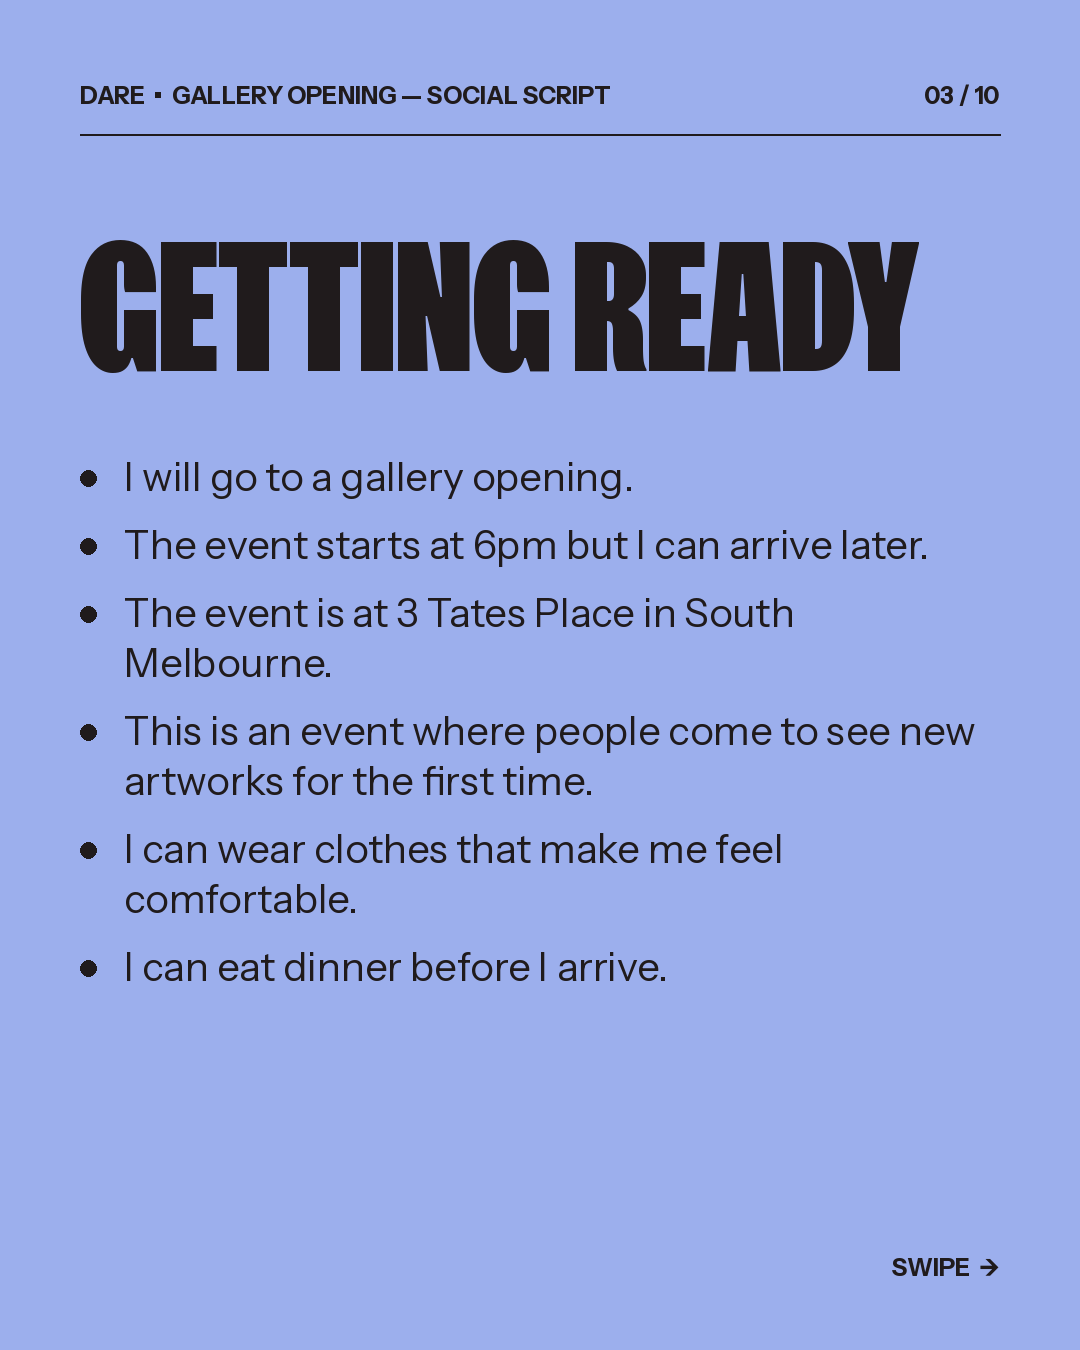
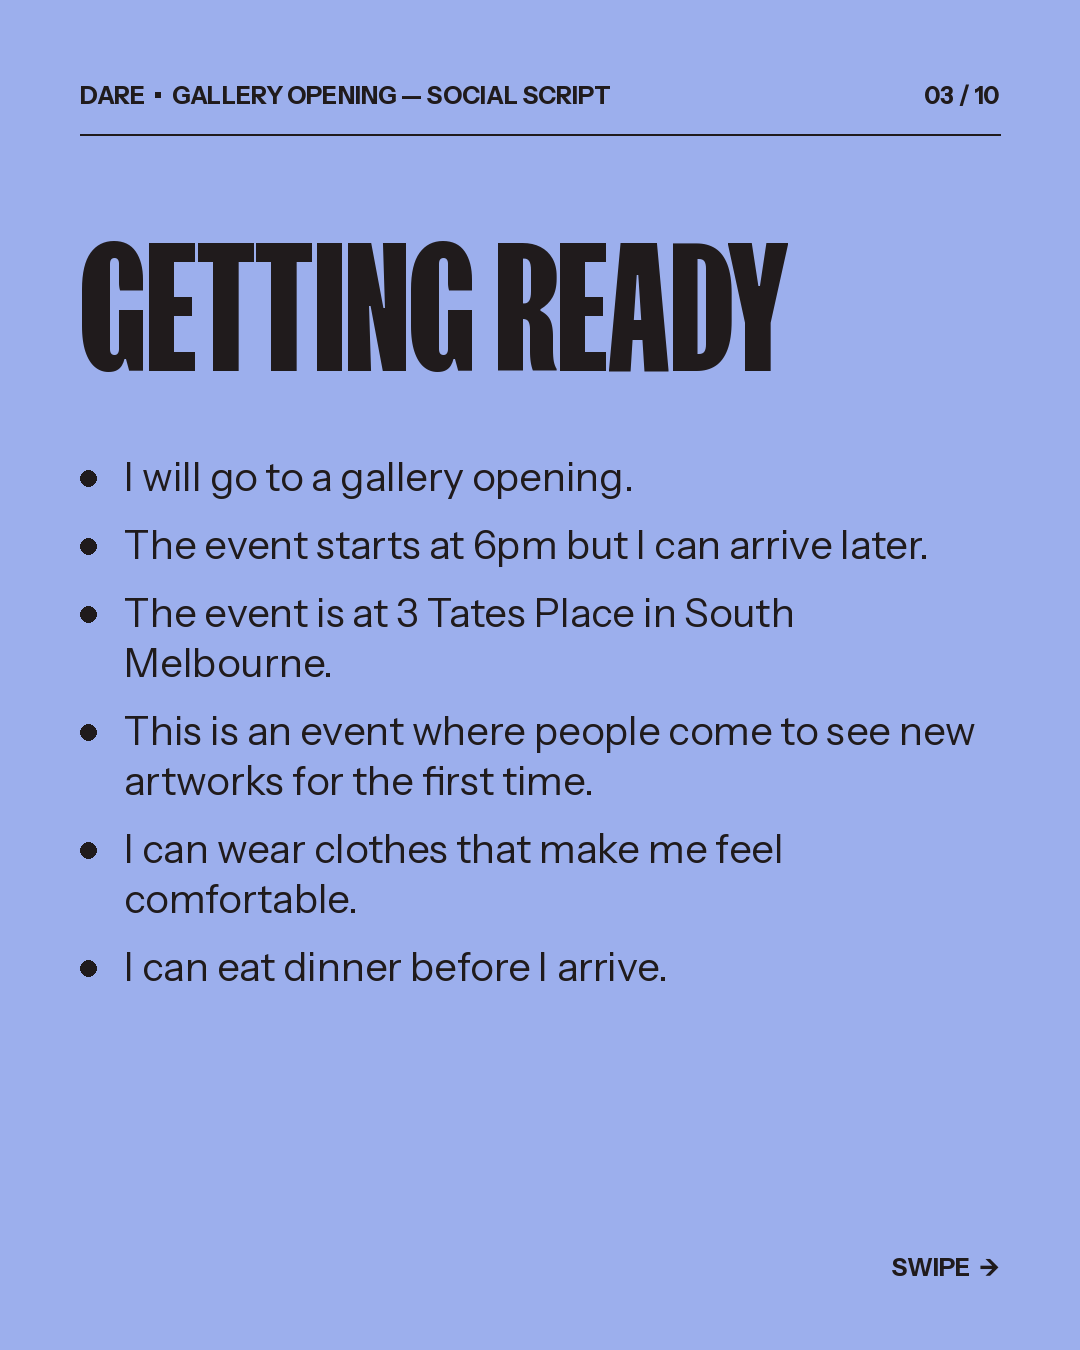
Use FK Screamer Bold and switch olive slide to black text
- Heading weight stepped down from Black to Bold per brand kit
- Speeches slide (olive bg) now uses black foreground
- Black slide remains the only white-foreground slide

Changed region(s): [[0.0917, 0.1556, 0.8556, 0.28]]

diff --git a/scripts/generate_carousel.py b/scripts/generate_carousel.py
@@ -84,10 +84,10 @@ def fit_heading(
 def heavy_fk(size: int) -> ImageFont.FreeTypeFont:
     f = font(FK, size)
     try:
-        f.set_variation_by_name("Black")
+        f.set_variation_by_name("Bold")
     except Exception:
         try:
-            f.set_variation_by_axes([900])
+            f.set_variation_by_axes([700])
         except Exception:
             pass
     return f
@@ -266,7 +266,7 @@ SLIDES = [
             "After the speech, people clap and hand wave.",
         ],
         "bg": COLORS["olive"],
-        "fg": COLORS["white"],
+        "fg": COLORS["black"],
         "accent": COLORS["pistachio"],
         "shape": "pill",
     },
